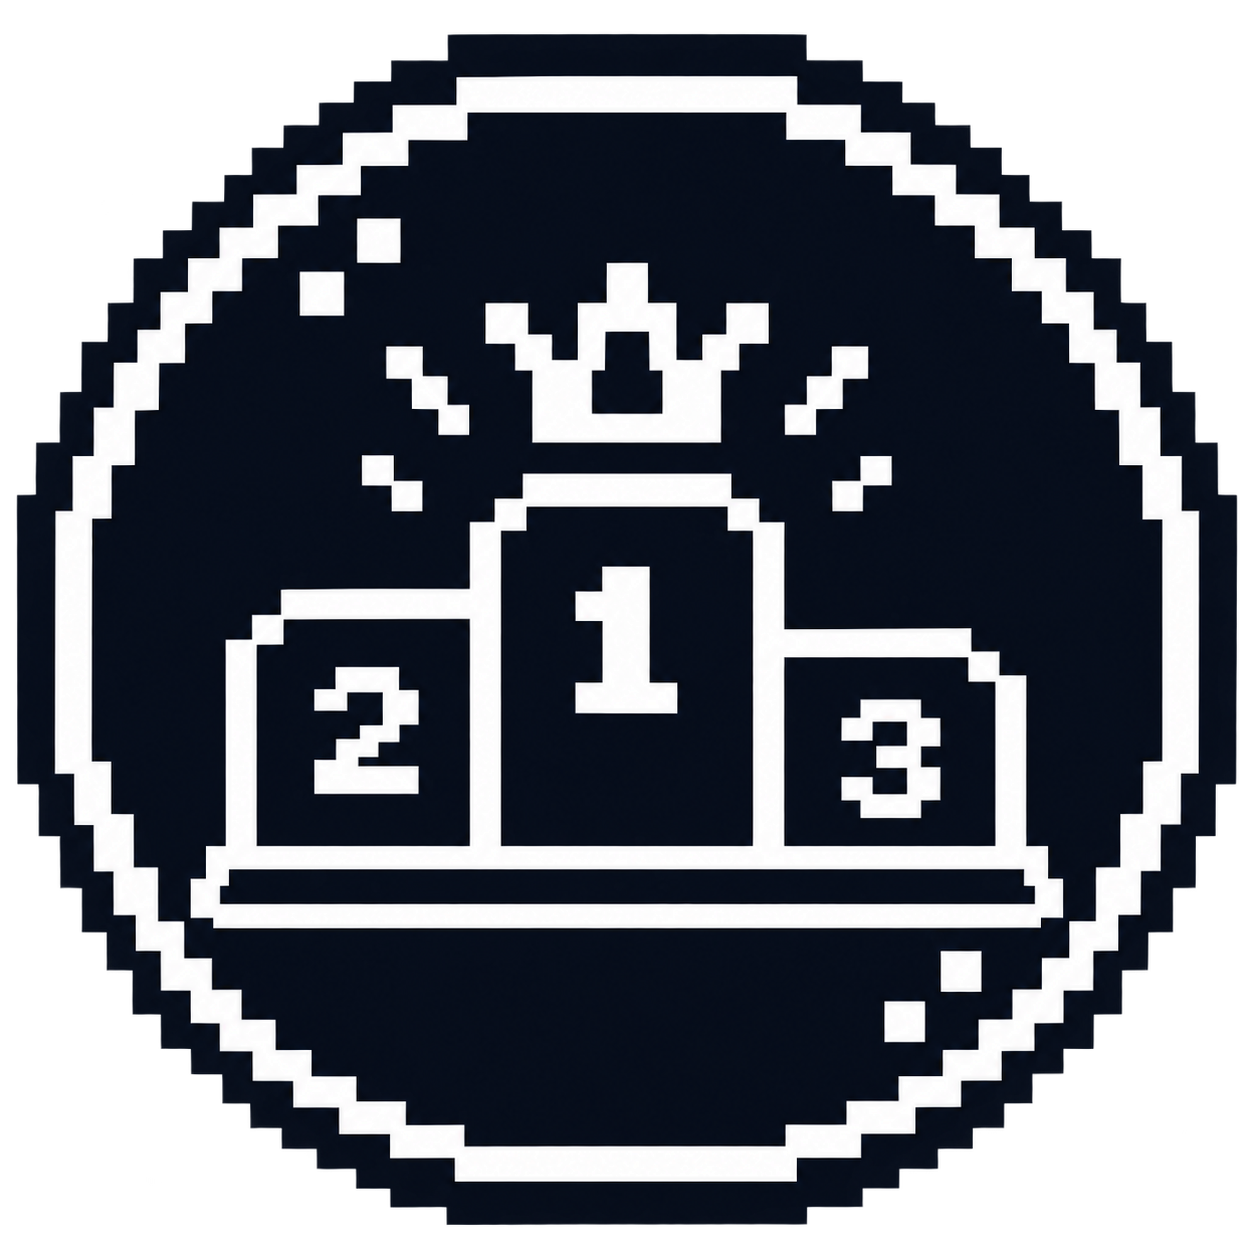
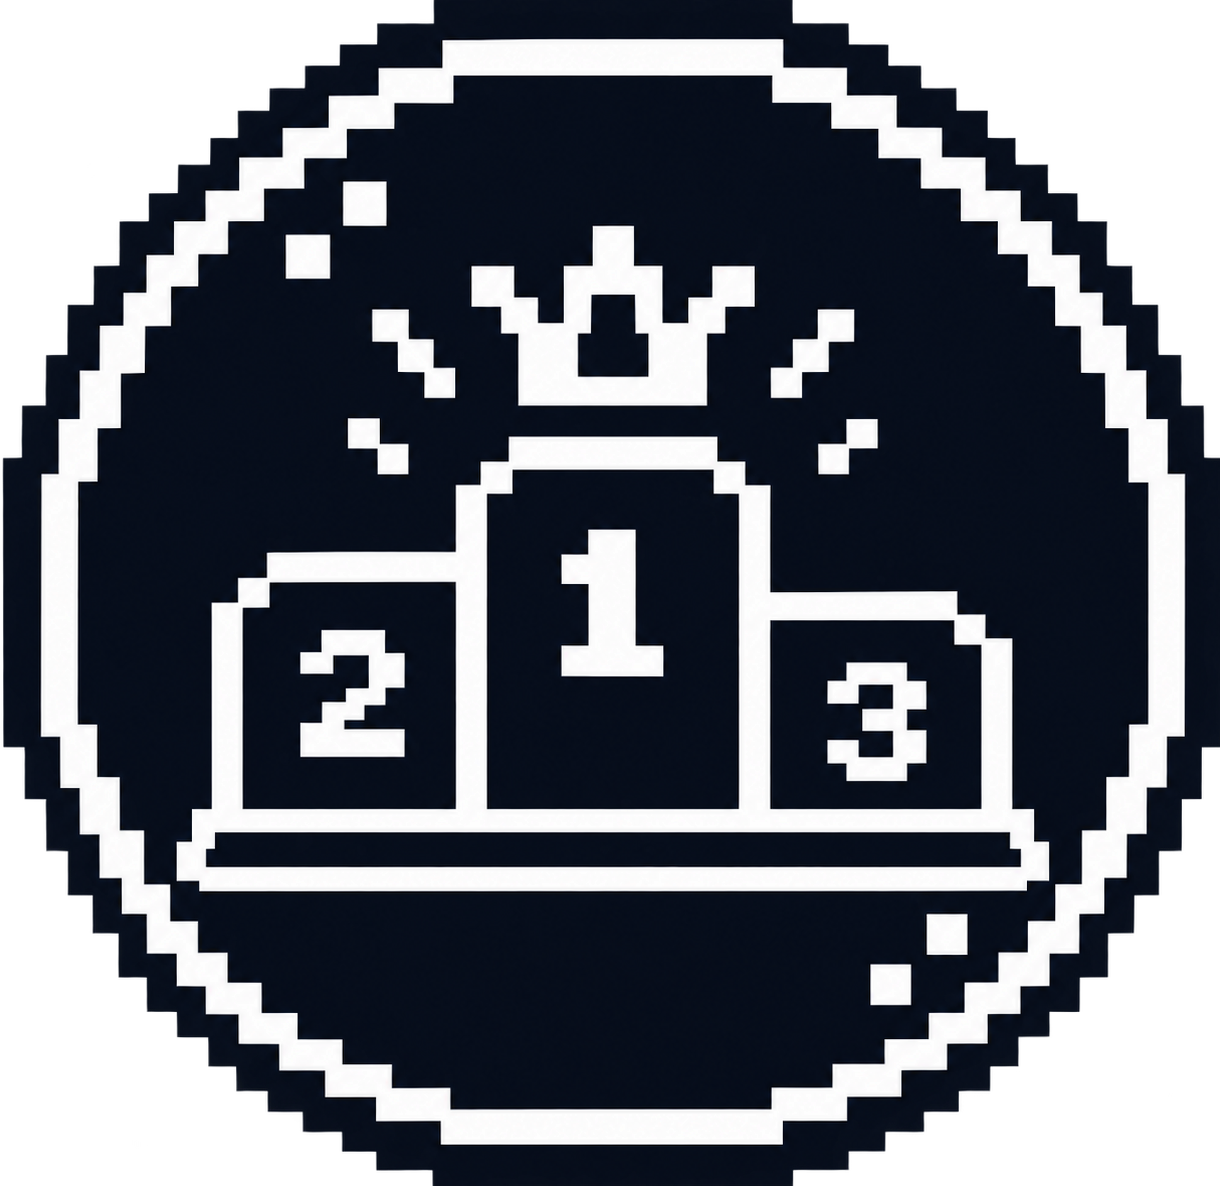
phone size?

diff --git a/frontend/src/components/StartScreen.tsx b/frontend/src/components/StartScreen.tsx
@@ -3,6 +3,7 @@ import levelOne from "../levels/levelOne"
 import { useState, useRef, useEffect } from "react"
 import playButton from "../assets/play_button.png"
 import rankingButton from "../assets/ranking_button.png"
+import achievmentButton from "../assets/achievement_button.png"
 import Settings from "../assets/setting.png"
 import {
   getLevelStats,
@@ -197,7 +198,7 @@ const StartScreen = ({ startGame, levels, previewAudioRef, controlMode, setContr
           id="achievements-button"
           onClick={() => setShowAchievements(true)}
         >
-          <img src={rankingButton} alt="Achievments" />
+          <img src={achievmentButton} alt="Achievments" />
         </button>
 
         <button

diff --git a/frontend/src/components/GameScreen.css b/frontend/src/components/GameScreen.css
@@ -13,7 +13,7 @@
   position: relative;
   container-type: size;
 
-  width: min(80vw, calc(80vh * 19.5 / 9));
+  width: min(90vw, calc(90vh * 19.5 / 9));
   aspect-ratio: 19.5 / 9;
 
   overflow: hidden;
@@ -22,6 +22,23 @@
   --note-small: clamp(0.8rem, 2.2cqw, 1.8rem);
   --note-large: clamp(1rem, 2.5cqw, 2rem);
 
+}
+
+@media (orientation: landscape) and (max-width: 900px) {
+  #game-screen {
+    width: 100vw;
+    height: 100dvh;
+    padding: 0;
+    margin: 0;
+  }
+
+  #game-area {
+    width: 100vw;
+    height: 100dvh;
+    aspect-ratio: auto;
+    max-width: none;
+    box-sizing: border-box;
+  }
 }
 
 /* BACKGROUND SCROLL */
